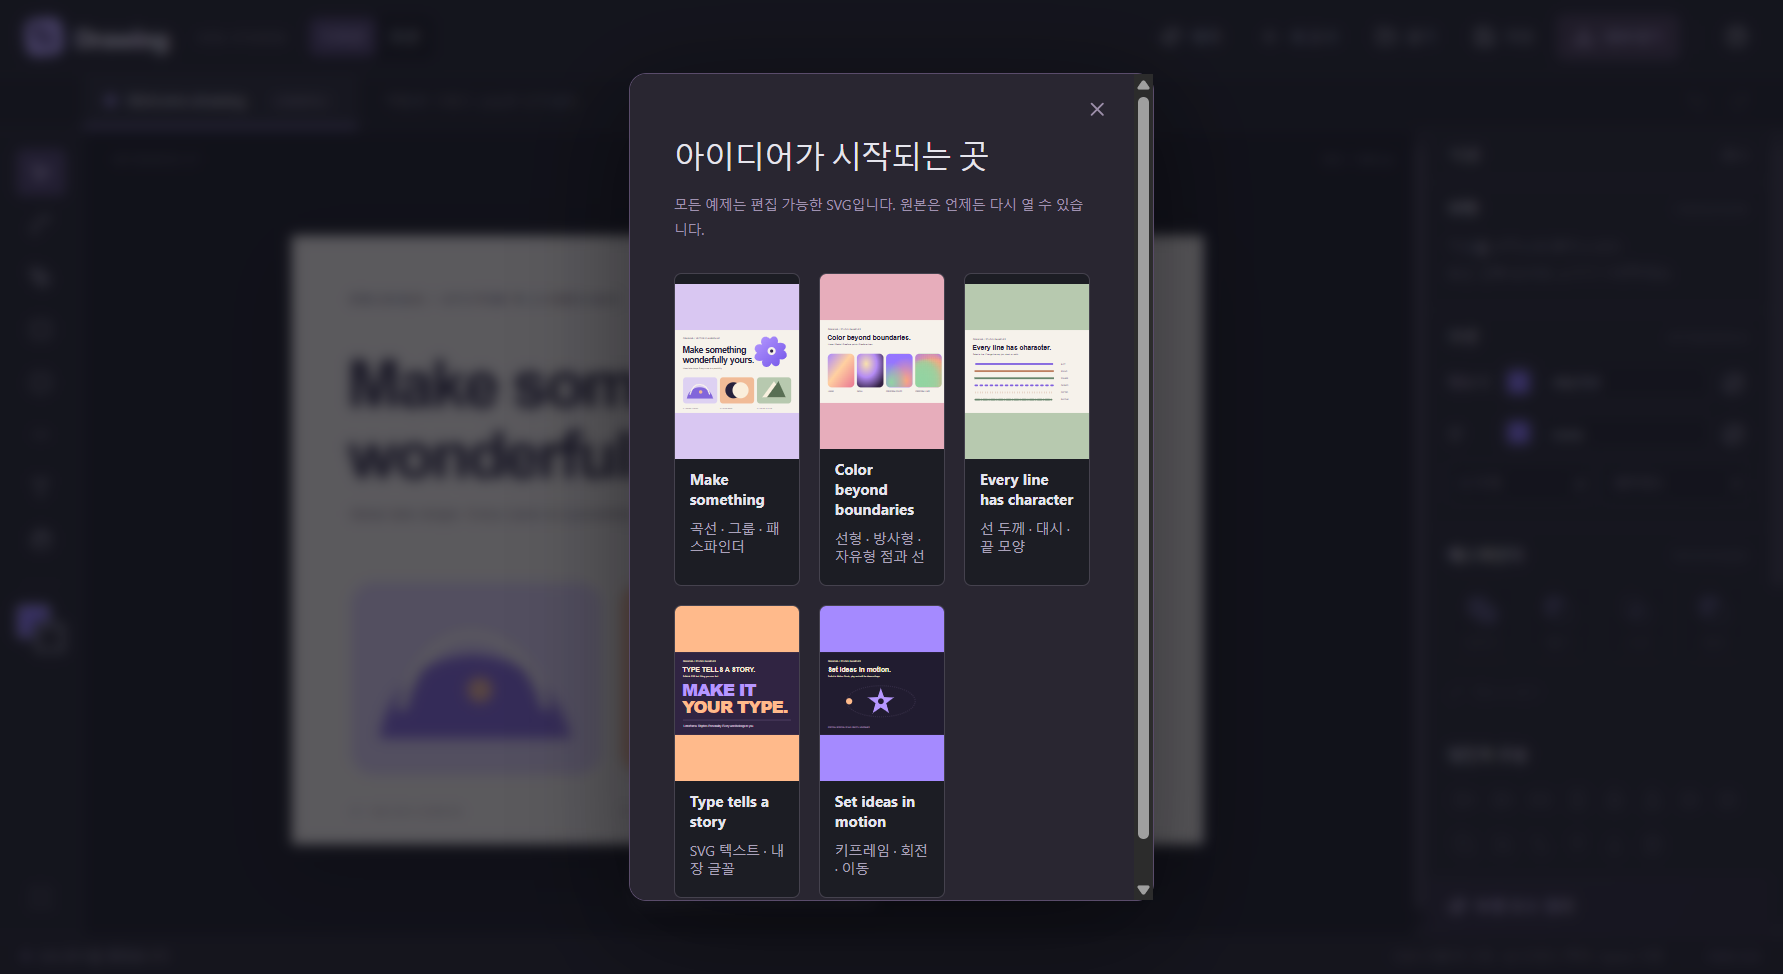
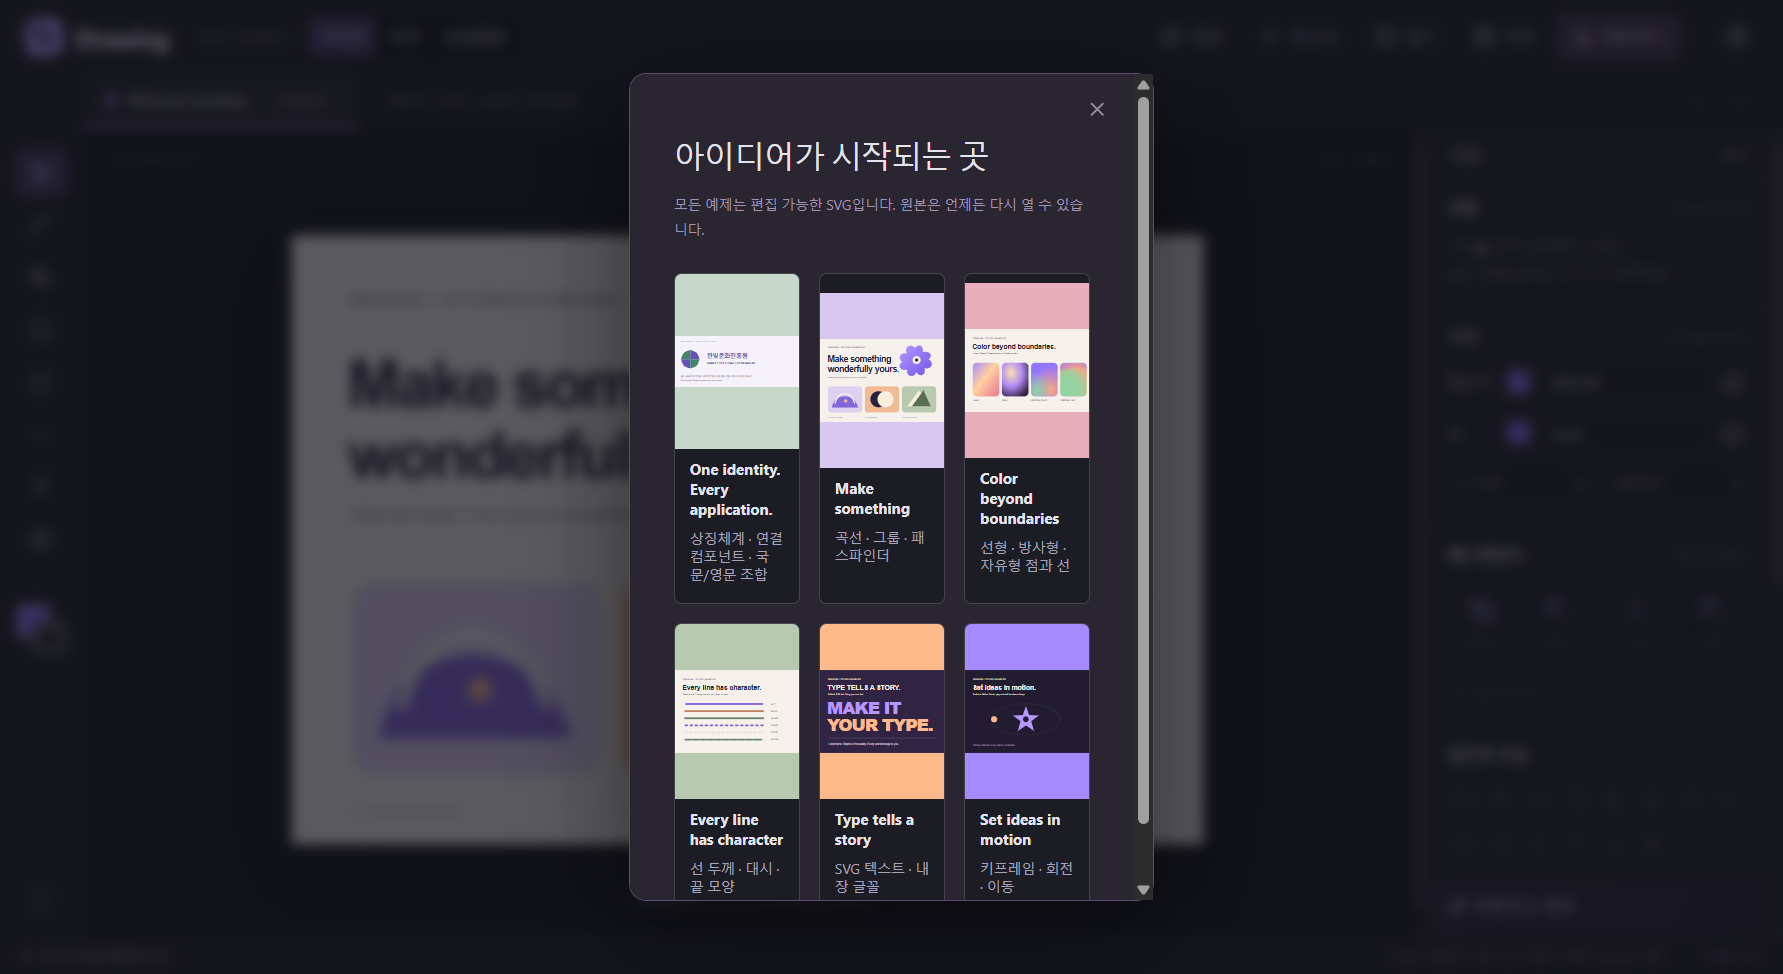
docs: record verified Drawing 1.2 EXE and brand studio screenshots

Changed region(s): [[0.3702, 0.2772, 0.6169, 0.924], [0.6169, 0.8316, 0.6478, 0.8624]]

diff --git a/docs/verification.md b/docs/verification.md
@@ -1,11 +1,11 @@
-# Drawing 1.1.0 verification
+# Drawing 1.2.0 verification
 
 Date: 2026-10-04 (Asia/Seoul). Platform: Windows x64.
 
 ## Automated checks
 
 `npm test` completed successfully: TypeScript check, Vite production build and
-**31 Playwright tests passed**. Tests use real Chromium and Electron.
+**37 Playwright tests passed**. Tests use real Chromium and Electron.
 
 | Requirement | Evidence |
 | --- | --- |
@@ -22,7 +22,10 @@ Date: 2026-10-04 (Asia/Seoul). Platform: Windows x64.
 | Rich appearance | Four editable gradient types, stop selection, canvas-handle dragging and undo, stroke cap/dash attributes |
 | Embedded images/fonts | Real PNG file input and saved manifest; full vs HarfBuzz subset TTF size, CSS font registration and load after project reopening |
 | Keyframe motion | Native exported SVG animation at expected position, nested transforms, easing/step interpolation, tracks/undo, UI scrub/play/export and untouched source |
-| Example library | All five documents opened; bundled motion example scrubs and plays |
+| Example library | All six documents opened; bundled motion example scrubs and plays |
+| Identity systems | 36-way matrix, master resize propagation, undo/redo, independent detach and preserved colors, linked copies, unique IDs, project/mode roundtrip, 42 delivered SVGs and real native ZIP save |
+| Retypo | Actual Arial outline match at 100% similarity; multipart Hangul recognition for 가나한빛, logotype master preservation and native glyph dimensions, editable SVG text with embedded full font; font file input and restricted system-font IPC |
+| Context menus | Header, layers, selection duplication, text-field selection; actual packaged context menu opens Retypo |
 | Windows EXE | electron-builder portable x64 build; actual packaged application and portable wrapper launched and edited |
 
 ## Packaged application checks
@@ -30,19 +33,19 @@ Date: 2026-10-04 (Asia/Seoul). Platform: Windows x64.
 `node scripts/verify-package.mjs` passed on `release/win-unpacked/Drawing.exe`:
 window display, sample SVG import, layer rename, native clipboard, undo, shape
 editing, actual Drawing project saving, node insertion/deletion and path closure, plus actual packaged HarfBuzz WASM font
-subsetting and project saving. No renderer errors were recorded. The rendered
+subsetting and project saving. No renderer errors were recorded. The same packaged app also passed 42 identity variants, native system-font reporting, Retypo matching/conversion and editing the recovered text. The rendered
 sample is captured in `docs/preview.png`.
 
 `node scripts/verify-portable.mjs` passed on the actual distribution file
-`release/Drawing-1.1.0-win-x64.exe`: bundled startup artwork, blank new document, rectangle drawing, Alt-drag
-duplication, undo, example gallery, motion scrub and playback. Product metadata reports **Drawing 1.1.0**.
+`release/Drawing-1.2.0-win-x64.exe`: bundled startup artwork, blank new document, rectangle drawing, Alt-drag
+duplication, undo, example gallery, motion scrub and playback. The portable EXE also passed 42 identity variants, native font reporting, 100% Arial outline matching, text recovery and re-editing, and context-menu operation. No renderer errors occurred. Screenshots are in `docs/identity.png` and `docs/retypo.png`. Product metadata reports **Drawing 1.2.0**.
 
-Distribution bytes: **143091846**.
+Distribution bytes: **143180152**.
 
 SHA-256:
 
 ```text
[2 lines of base64/hex data omitted]
 ```
 
 ## External check limitation

diff --git a/docs/release-notes.md b/docs/release-notes.md
@@ -1,20 +1,26 @@
-# Drawing 1.1.0
+# Drawing 1.2.0 — Identity Studio and Retypo
 
-SVG 기반 디자인·모션 스튜디오로 확장했습니다. 기본 저장 형식은 공개 JSON
-`.drawing`이며, SVG와 내장 리소스·작업 화면·키프레임을 함께 기록합니다.
-기존 SVG 파일 열기와 SVG 내보내기도 유지합니다.
+Windows x64 portable EXE. 기존 디자인·모션 모드에 BI 제작용 **상징체계** 모드를 추가했습니다.
 
-- 편집 가능한 내장 예제 5개와 예제 갤러리
-- 스트로크 두께·끝 모양·모서리·대시·마이터·확대 시 두께 유지
-- 선형·방사형·자유형 점/선 그라데이션, 스톱·알파·좌표와 캔버스 핸들
-- SVG 텍스트, PNG/JPEG/WebP/GIF 이미지 포함, TTF/OTF 글꼴 전체/사용 글리프 포함
-- 디자인·모션 모드, 이동·회전·크기·불투명도 키프레임과 재생·반복·보간
-- 정적 SVG 및 JavaScript가 필요 없는 애니메이션 SVG 내보내기
-- 공개 포맷 명세와 JSON Schema, 화면 복원, 리소스·모션 편집 실행 취소
+- 심볼과 국문·영문 로고타입을 SVG 텍스트 또는 경로 컴포넌트로 등록.
+- 원본 변경을 연결 조합에 반영, Alt 복제 연결 유지, 개별 연결 해제와 독립 편집.
+- 국문/영문/국영문 × 가로/세로/로고타입/심볼 × 기본/보조/단색/반전색 매트릭스. 기본 36개 조합.
+- 보호 공간·최소 사용 너비 규정, 언어/배치별 독립 SVG와 manifest/README ZIP 전달.
+- **Retypo:** 시스템·프로젝트·파일 TTF/OTF 글리프 보고, Unicode 검색, 윤곽 비교 후보와 형태 유사도, 문구 보정 후 폰트를 포함한 실제 SVG 텍스트 복원.
+- 떨어진 국문 자소를 포함한 윤곽 비교. 선택한 폰트 기준의 비교이며 변형·겹침은 직접 보정 가능.
+- 앱 전체 우클릭 메뉴와 입력란 전용 작업 메뉴.
+- 상징체계 예제를 포함한 여섯 개의 내장 원본 예제. 기존 Make something 시작 문서 유지.
 
-자유형은 SVG 색상 필드 합성 방식입니다. 부분 포함 글꼴에 새로운 문자가 필요하면
-폰트를 다시 포함하세요. 프로젝트로 저장하면 편집 가능한 모션을 보존합니다.
+공개 `.drawing` version 1에 선택적 identity 메타데이터와 화면 모드를 추가했습니다. 기존 프로젝트를 그대로 읽습니다.
 
-`Drawing-1.1.0-win-x64.exe`는 Windows x64 포터블 앱입니다. 설치와 Java 런타임이
-필요 없습니다. 로컬 Chromium·Electron 테스트와 실제 EXE 검증을 수행했습니다.
-실행 파일은 코드 서명되지 않았으며 SHA256SUMS.txt로 파일을 확인할 수 있습니다.
+검증: TypeScript/Vite 빌드, **37개 Playwright 테스트**, unpacked 앱과 실제 포터블 EXE 실행 검증 통과. 실제 EXE에서 42개 조합 생성, 시스템 폰트 조회, Retypo 복원·텍스트 재편집을 확인했고 렌더러 오류는 없었습니다.
+
+File: `Drawing-1.2.0-win-x64.exe` (143180152 bytes)
+
+SHA-256:
+
+```text
[1 lines of base64/hex data omitted]
+```
+
+포터블 앱으로 설치 및 Java 런타임이 필요하지 않습니다. 배포 파일은 코드 서명 없는 자체 빌드입니다. 포함·배포하는 폰트에는 해당 라이선스가 적용됩니다.

diff --git a/README.md b/README.md
@@ -145,7 +145,10 @@ npm run format           # 소스 포맷
 - `src/core/project.ts`: 공개 프로젝트 타입과 로드 검증.
 - `src/core/paints.ts`, `assets.ts`, `fonts.ts`: 편집 가능한 색상 필드와 내장 리소스.
 - `src/core/motion.ts`, `Timeline.tsx`: 보간·키프레임·SVG 미리보기와 애니메이션 내보내기.
-- `src/examples.ts`, `samples/`: 다섯 편집 가능한 예제.
+- `src/core/identity.ts`, `BrandPanel.tsx`: 상징 컴포넌트·조합 매트릭스·SVG ZIP.
+- `src/core/retypo.ts`, `RetypoDialog.tsx`: 폰트 글리프 보고·윤곽 비교·텍스트 복원.
+- `src/ContextMenu.tsx`: 앱 전체의 우클릭 작업 메뉴.
+- `src/examples.ts`, `samples/`: 여섯 편집 가능한 예제.
 - `src/main.tsx`: 도구·속성·레이어·파일 UI와 키보드 동작.
 - `electron/`: 제한된 preload 브리지, 파일 I/O, 네이티브 대화상자와 클립보드.
 - `tests/`: 문서·기하·브라우저 상호작용·데스크톱 파일 검증.

diff --git a/docs/identity-studio.md b/docs/identity-studio.md
@@ -11,7 +11,7 @@
 명칭 변경과 연결됩니다. 직접 등록한 텍스트나 경로는 원본 편집으로 수정합니다.
 
 매트릭스는 국문/영문/국영문, 가로형/세로형/로고타입/심볼, 기본색/보조색/
-단색/반전색을 조합합니다. 기본 선택은 36개이며 생성은 프로젝트당 500개까지입니다.
+단색/반전색을 조합합니다. 기본색은 원본의 여러 색을 보존하고 다른 색상형은 단색으로 변환합니다. 기본 선택은 36개이며 생성은 프로젝트당 500개까지입니다.
 기존 작품 아래에 조합을 배치하고 아트보드를 확장합니다. 조합 목록을 클릭하면
 해당 조합으로 확대·이동합니다. 보호 공간과 이름은 캔버스 안내이며 ZIP의 SVG에는
 포함하지 않습니다. 최소 사용 너비는 전달 규정으로 manifest와 README에 기록합니다.
